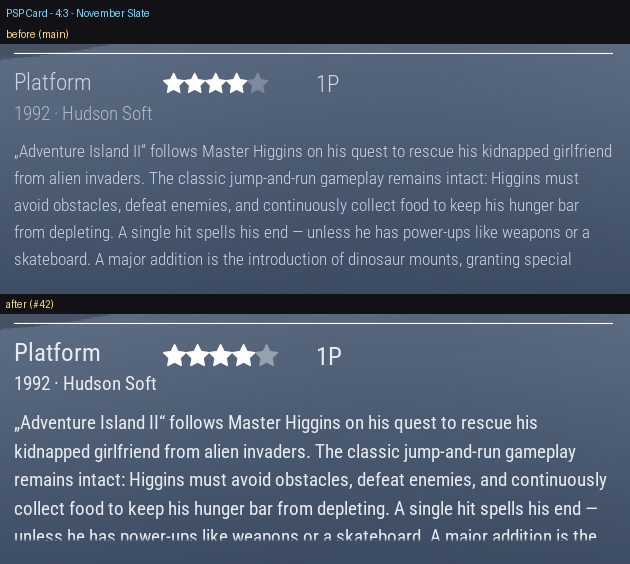
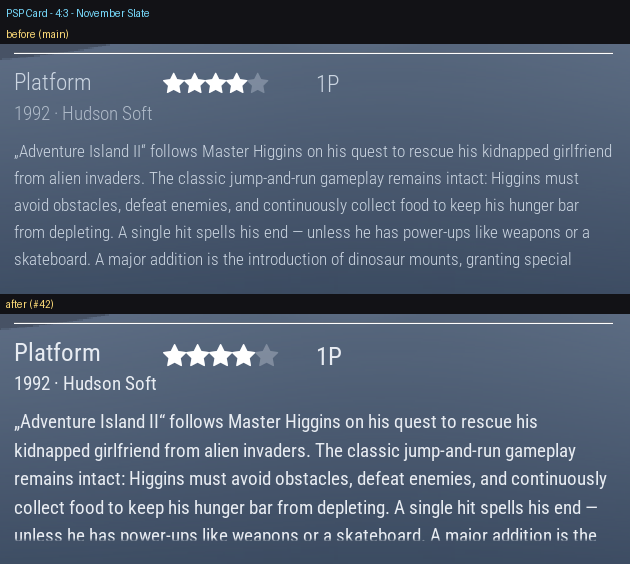
review: five findings, all confirmed by measurement (#42)
Every one was verified on rendered pixels before being accepted - the same
discipline that saved a wrong push on #43.

- cardMeta2's literal 0.026 was LARGER than metadata line 1 at 1:1, where
  cardMetaFontSize is overridden to 0.025. Pre-existing, but this PR removed
  the opacity cut that had been masking it and then argued in the commit
  message that size carries the hierarchy - which at that one ratio it did
  not. Now ${cardMeta2FontSize}, 0.026 base and 0.020 at 1:1, and the guard
  checks the pair at every ratio instead of only the base.
- starTrackOpacity 0.35 -> 0.45 was backwards. The track's job is RELATIVE,
  so lifting the body ink already brightened it; raising the opacity
  brightened it a second time and measured the filled-vs-empty separation
  falling 3.45:1 -> 2.61:1, the exact failure the change claimed to be
  avoiding. Shipping 0.30, which measures 3.23:1 with the lifted ink while
  the track still reads against the wave (1.29:1 vs 1.34:1 before).
- The list star-budget guard's DIMS never included base 4:3 - the ratio the
  theme ships at and the one the Brick runs. Added; it passes with 10.5px
  clearance, and the mutation that overruns it is caught.
- The new grid guard used a bare `track > bound` where both sibling guards
  demand MIN_COL_GAP after a bare comparison once let 8x7 through by 0.05px.
  With the margin applied it failed, so gridStarW goes 0.155 -> 0.165.
- textSecondary is a STATE colour in two places, and lifting it narrows
[…]

diff --git a/docs/psp-xmb-style-guidelines.md b/docs/psp-xmb-style-guidelines.md
@@ -648,12 +648,12 @@ All `<fontSize>` values are normalized to screen height (0.0-1.0):
 | System-name caption (system view) | `fontLight` | `0.034` | 26 | Below the selected category icon. |
 | Count caption | `fontLight` | `0.034` | 26 | When Game Count: Show. |
 | Card metadata line 1 (`cardGenre`, `cardStarTrack`/`cardStars`, `cardPlayers`) | `fontBody` | `0.033` Boxart / `0.029` Compact (`cardMetaFontSize`) | 25 / 22 | Three fixed columns under the rule — genre, star track + `{game:stars}`, player count. Fixed-width columns since v0.12 (§6.7, §8) so a long genre can't push the stars around. #42 raised the sizes ~10%; the ceiling is the star-track budget, and 1:1 is the binding ratio at `0.0275`. |
-| Card metadata line 2 (`cardMeta2`) | `fontBody` | `0.026` (fixed, not an Icon Size variable) | 20 | `{game:releaseyear} · {game:developer}`, below line 1. #42 removed its `opacity 0.75`: with line 1 now at `0.033`, size alone carries the hierarchy, and the opacity was costing 0.7 of a contrast point for nothing. |
+| Card metadata line 2 (`cardMeta2`) | `fontBody` | `0.026`, `0.020` at 1:1 (`cardMeta2FontSize`) | 20 | `{game:releaseyear} · {game:developer}`, below line 1. #42 removed its `opacity 0.75`: with line 1 now at `0.033`, size alone carries the hierarchy, and the opacity was costing 0.7 of a contrast point for nothing. |
 | Peek title (`tplPeekTitle`, Friendly only) | `fontLight` | `0.030` / `0.026` (`peekTitleFontSize`) | 23 / 20 | Dim title beside unselected peek icons. |
 | Helpsystem | `fontRegular` | `0.025` | 19 | Bottom-strip button labels. |
 | List panel metadata (`listYearDev`, `listStarTrack`/`listStars`, `listMeta`) | `fontBody` | `0.030`, `0.028` at 1:1 (`listMetaFontSize`) | 23 / 20 | List + Details info panel. Per-ratio since #42 — the five-glyph star track is height-normalised while `listStarX`/`listMetaX` are width-normalised, so the squarest surface is the binding one. |
 | List description (`listDesc`) | `fontBody` | `0.026` | 20 | Same bounded-and-scrolling treatment as `cardDesc`, same clipped last line. |
-| Grid info bar (`gridMeta`, `gridStarTrack`/`gridStars`) | `fontBody` | `0.029` | 22 | Box Art Grid's single metadata run plus its rating pair. `gridStarW` was widened to `0.155` so the track still fits at 1:1. |
+| Grid info bar (`gridMeta`, `gridStarTrack`/`gridStars`) | `fontBody` | `0.029` | 22 | Box Art Grid's single metadata run plus its rating pair. `gridStarW` was widened to `0.165` so the track still clears its bound at 1:1 with the same 0.010 margin its sibling guards demand. |
 | Card description (`cardDesc`) | `fontBody` | `0.025` Boxart / `0.023` Compact (`cardDescFontSize`) | 19 / 18 | Bounded block below the metadata lines, full text-column width, `<clipRect>`-bounded so it cannot reach the help strip (v0.12; superseded the v0.11 narrow marquee strip — see §10). **The box height did not grow with the face**, so the last visible line is clipped mid-glyph until auto-scroll moves it — an accepted trade in #42, not a bug. |
 
 The cluster of secondary sizes between `0.023` and `0.040` reads as
@@ -1207,14 +1207,25 @@ empty-star track. `cardStarTrack` (a dim, always-five-glyph
 under `cardStars` (`{game:stars}`, `zIndex 8`), identical in every
 other property (`pos`, `fontPath`, `fontSize`). The only thing
 separating the two is the track's `<opacity>${starTrackOpacity}</opacity>`
-(`0.45` since #42, raised from `0.35`). **That value cannot go to 1** —
-the track *is* the empty half of the rating, so at full opacity every
-game reads as five stars. It is the one opacity cut #42 kept; the
-other, `${metaSecondaryOpacity}` on the card's year/developer line,
-went to `1` because size alone already carried that hierarchy.
-`scripts/tests/test-body-legibility.sh` asserts
-`0 < starTrackOpacity < 1` and that all three tracks read the
-variable. This works because ES
+— `0.30` since #42, **lowered** from `0.35`.
+
+Lowered, because the track's job is *relative*: it has to sit visibly
+below the filled glyphs, so when #42 lifted the body ink the track got
+brighter for free and the opacity had to come down to compensate. Raising
+it to `0.45` was tried first and measured the pair's separation falling
+from **3.45:1 to 2.61:1** on a render; `0.30` measures **3.23:1**, close
+to what the theme shipped with, while the track still reads against the
+wave behind it (1.29:1, against 1.34:1 before). Both ends are bounded:
+too high and the empty stars stop looking empty, too low and they vanish
+into the wave.
+
+It is the one opacity cut #42 kept. The other, `${metaSecondaryOpacity}`
+on the card's year/developer line, went to `1` because size alone already
+carried that hierarchy — which is exactly why `cardMeta2FontSize` had to
+become a per-ratio variable (as a literal `0.026` it was *larger* than
+line 1 at 1:1). `scripts/tests/test-body-legibility.sh` bounds the
+opacity at both ends, checks all three tracks read the variable, and
+checks the two metadata lines do not invert at any ratio. This works because ES
 does per-glyph font fallback to `:/fontawesome-webfont.ttf`
 (`Font.cpp:274-312`) — a literal `U+F005` resolves to the same glyph
 at the same advance width as the one `{game:stars}` emits. Both

diff --git a/docs/screenshots/v0.13-body-legibility/README.md b/docs/screenshots/v0.13-body-legibility/README.md
@@ -13,6 +13,7 @@ show the problem the issue reports.
 | `before-after-card-slate.png` | The dark colorset (November Slate). |
 | `before-after-list-4x3.png` | List + Details info panel, including the year/developer and players/genre lines that moved off `${selectorGlow}`. |
 | `before-after-grid-4x3.png` | Box Art Grid info bar. |
+| `metadata-hierarchy-1x1.png` | PSP Card at 1:1, where `cardMeta2`'s literal `0.026` used to be *larger* than metadata line 1's `0.025` — invisible until the opacity that had been masking it was removed. |
 
 ## Measured contrast, January Blue at 4:3
 
@@ -47,6 +48,9 @@ guide for why that distinction is worth two full contrast points.
 | `device-grid-before-after.png` | The device's own configuration (April Green, Box Art Grid), captured before and after the change. |
 | `device-card-4x3.png` | PSP Card on hardware. |
 | `device-list-4x3.png` | List + Details on hardware, including the two lines that were at 1.82:1. |
+
+All device shots were re-captured after code review, so they show the shipped
+`starTrackOpacity` of 0.30 rather than the 0.45 the first round carried.
 
 Measured on the device pixels, grid info bar: **7.96 → 10.16:1**, metadata
 glyph band **15 → 17px**, ink coverage **+38%**.
